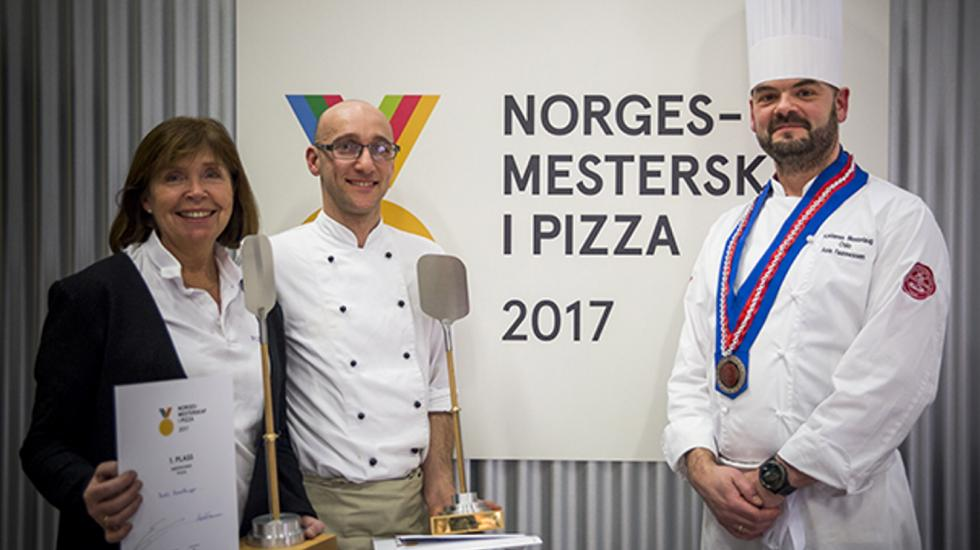
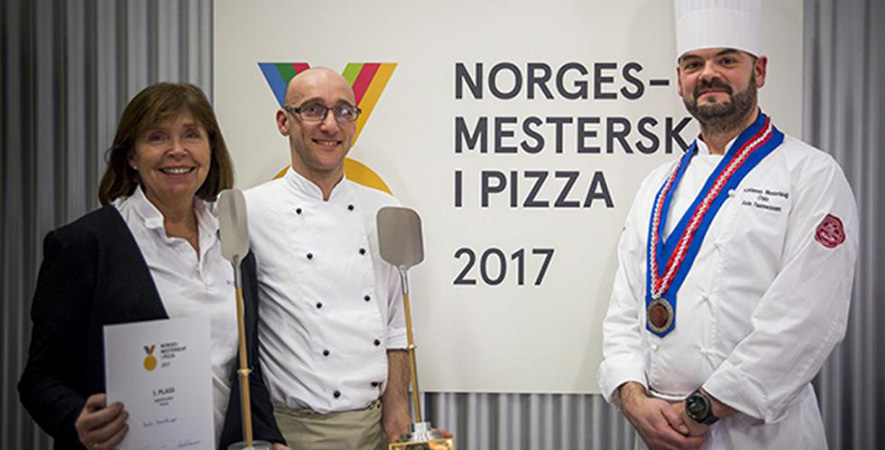
bildestr i photoshop

diff --git a/hovedprosjekt/omossstyle.css b/hovedprosjekt/omossstyle.css
@@ -111,17 +111,3 @@ main{
 .elleve{
   grid-column: 1 / 4;
   }
-
-/*skal fikse bildestørrelsen i photoshop*/
-.en img{
-  width: 320px;
-  height: 320px;
-  }
-.elleve img{
-  height: 450px;
-  width: 885px;
-  }
-.seks img{
-  height: 300px;
-  width: 310px;
-  }
